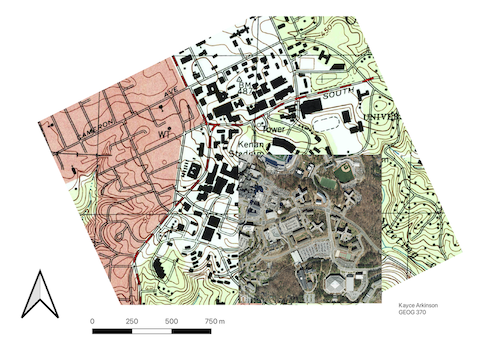
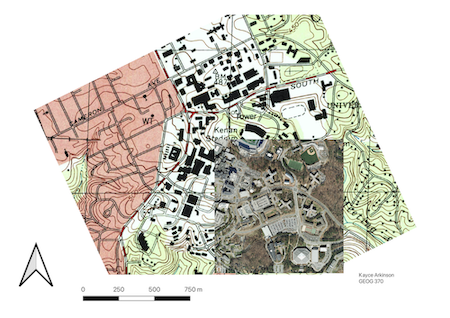
image

diff --git a/HW 4/hw4.html b/HW 4/hw4.html
@@ -7,6 +7,6 @@
 </head>
 <body>
     <h1>Homework 4</h1>
-    <a href="./homework4forrealcopy.png"><img src="./homework4forreal.png" alt=""></a>
-    <a href="./unrect_unc_topo_1993_modified.2.points"><h2>Control Points</h2></a>
+    <a href="./homework4forreal.png"><img src="./homework4forrealcopy.png" alt=""></a>
+    <a href="https://raw.githubusercontent.com/arkin14/geog.370/main/HW%204/rectified.image.GCP.points"><h2>Control Points</h2></a>
     </html>
